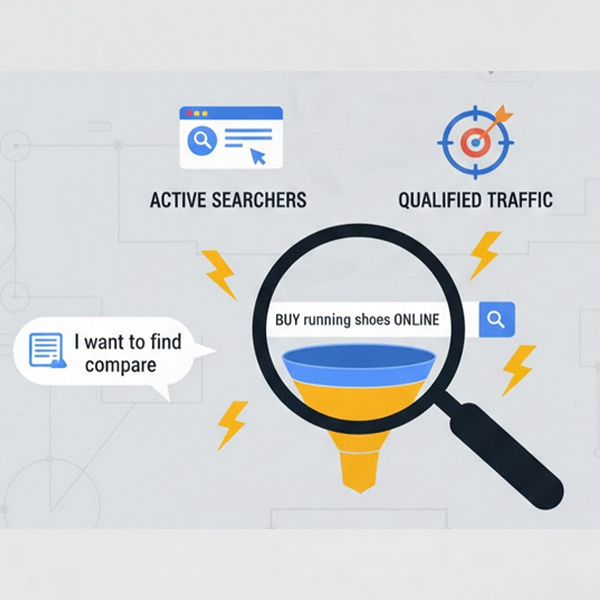
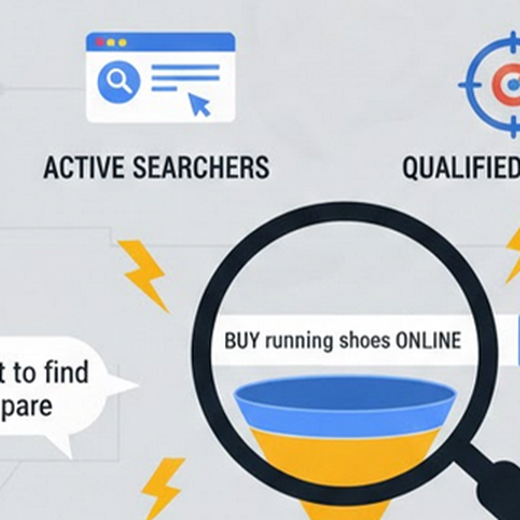
Crop and resize service images to fill circles

diff --git a/style.css b/style.css
@@ -335,10 +335,10 @@ a {
 }
 
 .feature-circle-media {
-  width: 325px;
-  height: 300px;
+  width: 260px;
+  height: 260px;
   margin: 0 auto 1rem;
-  border-radius: 20px;
+  border-radius: 50%;
   overflow: hidden;
   background: #dbdee3;
   box-shadow: var(--shadow);
